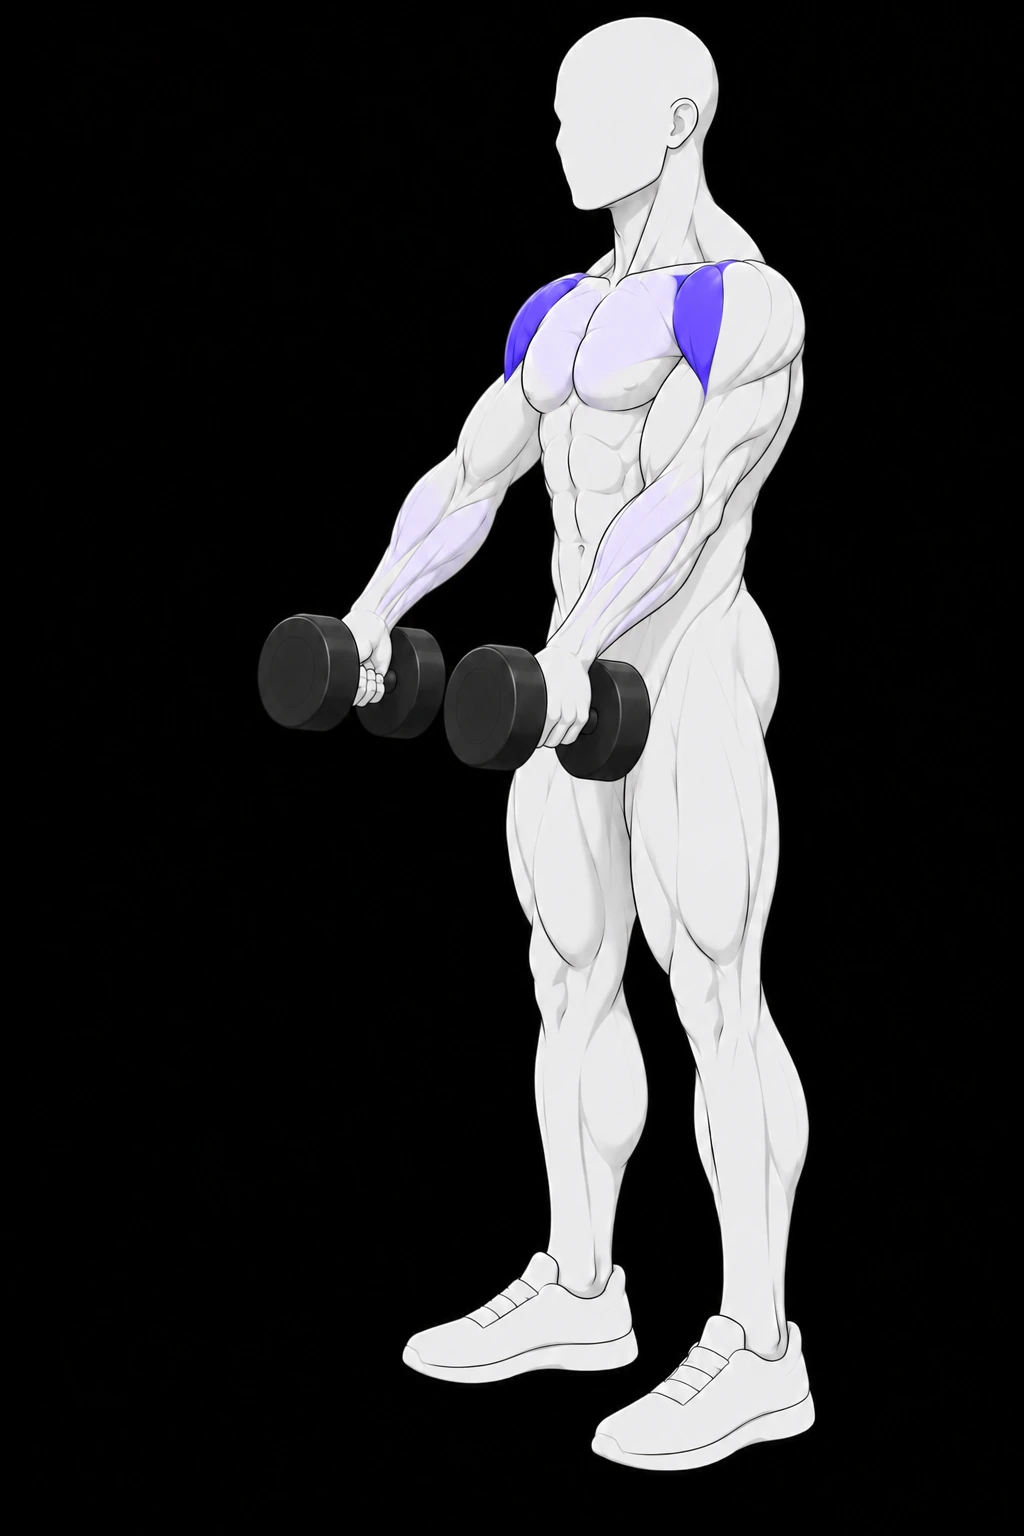
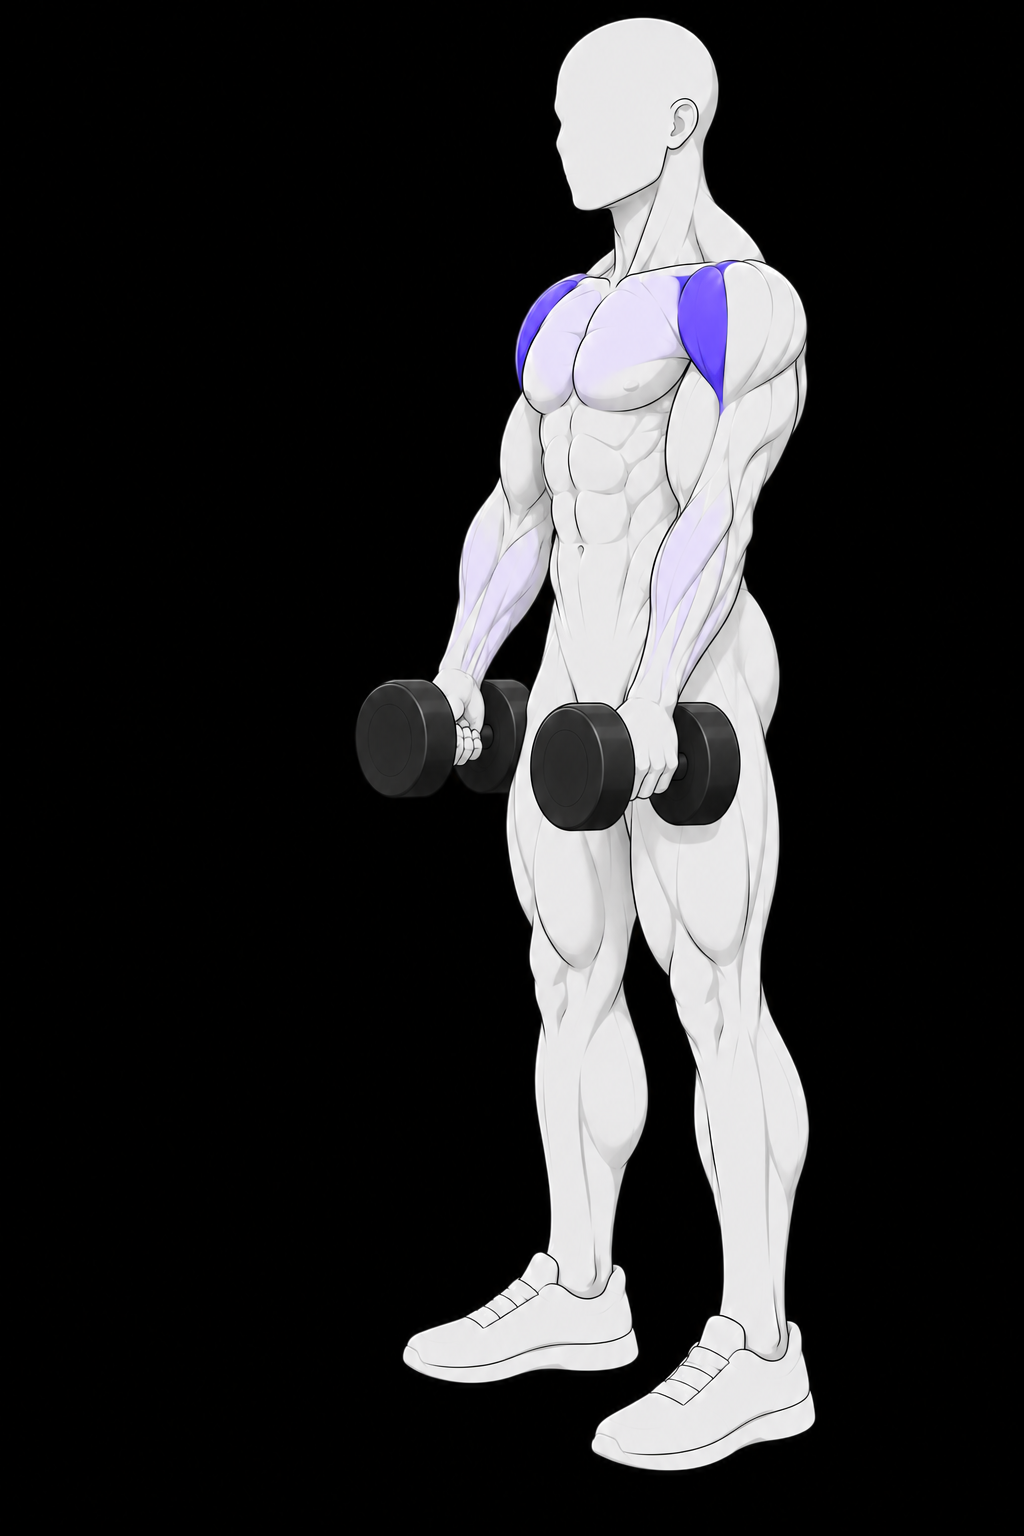
Release reviewed six-frame front raise guide (#2520)

Changed region(s): [[0.25, 0.1562, 0.8125, 0.5625], [0.6562, 0.0625, 0.6875, 0.0938]]

diff --git a/src/lib/releasedFormPlacards.ts b/src/lib/releasedFormPlacards.ts
@@ -215,19 +215,7 @@ export const RELEASED_FORM_PLACARDS = {
   ),
   "db-curl": placard("db-curl", ["Biceps"], ["Forearms"], [[0,"Set","Stand tall with palms facing forward."],[0.5,"Curl","Bend your elbows without swinging your torso."],[1,"Top","Curl toward shoulders, keeping wrists straight."],[1,"Control","Keep upper arms close to your ribs."],[0.5,"Lower","Lower both dumbbells slowly under control."],[0,"Reset","Return near straight without snapping your elbows."]]),
   "hammer-curl": placard("hammer-curl", ["Biceps"], ["Brachioradialis", "Forearms"], [[0,"Set","Stand tall with palms facing inward."],[0.5,"Curl","Bend your elbows without turning your palms."],[1,"Top","Bring weights toward shoulders with wrists aligned."],[1,"Control","Keep upper arms beside your ribs."],[0.5,"Lower","Lower slowly with the same neutral grip."],[0,"Reset","Return near straight without swinging your torso."]]),
-  "front-raise": placard(
-    "front-raise",
-    ["anterior deltoids"],
-    ["upper pectorals"],
-    [
-      [0, "Start", "Stand tall with dumbbells before your thighs."],
-      [0.25, "Initiate raise", "Raise both arms forward without swinging."],
-      [0.6, "Continue raise", "Keep the same slight elbow bend."],
-      [1, "Shoulder height", "Stop with your arms at shoulder height."],
-      [0.6, "Controlled lower", "Lower slowly without leaning your torso."],
-      [0.25, "Return", "Return towards your thighs under control."],
-    ]
-  ),
+  "front-raise": placard("front-raise", ["Front Delts"], ["Upper Chest"], [[0,"Set","Stand tall with weights before your thighs."],[0.5,"Raise","Lift forward with a slight elbow bend."],[1,"Top","Stop at shoulder height without shrugging."],[1,"Control","Keep wrists straight and your torso still."],[0.5,"Lower","Lower both weights slowly without swinging."],[0,"Reset","Return weights to the front of thighs."]]),
   "goblet-squat": placard(
     "goblet-squat",
     ["quadriceps"],

diff --git a/src/lib/formArtwork.ts b/src/lib/formArtwork.ts
@@ -181,7 +181,7 @@ export const FORM_ARTWORK: Record<string, FormArtwork> = {
   },
   "db-curl": { version: "anatomy-v3-2026-09-29", status: "approved", width: 1024, height: 1536, frames: Array.from({length:6}, (_,i) => `form-frames/db-curl/${i+1}.webp`), reference: "form-frames/db-curl/1.webp", reviewFile: "docs/exercise-art/releases/2026-09-29/db-curl.json" },
   "hammer-curl": { version: "anatomy-v3-2026-09-29", status: "approved", width: 1024, height: 1536, frames: Array.from({length:6}, (_,i) => `form-frames/hammer-curl/${i+1}.webp`), reference: "form-frames/hammer-curl/1.webp", reviewFile: "docs/exercise-art/releases/2026-09-29/hammer-curl.json" },
-  "front-raise": ownerReleased("front-raise", 1024, 1536),
+  "front-raise": { version: "anatomy-v3-2026-09-29", status: "approved", width: 1024, height: 1536, frames: Array.from({length:6}, (_,i) => `form-frames/front-raise/${i+1}.webp`), reference: "form-frames/front-raise/1.webp", reviewFile: "docs/exercise-art/releases/2026-09-29/front-raise.json" },
   "goblet-squat": ownerReleased("goblet-squat", 1024, 1536),
   "push-ups": ownerReleased("push-ups", 1536, 1024),
   squat: ownerReleased("squat", 1024, 1536),

diff --git a/src/lib/__tests__/formArtOwnerRelease.test.ts b/src/lib/__tests__/formArtOwnerRelease.test.ts
@@ -7,7 +7,6 @@ import { validateOwnerArtworkRelease } from "../formArtOwnerRelease";
 import { validateArtworkReview } from "../formArtReview";
 
 const ids = [
-  "front-raise",
   "goblet-squat",
   "push-ups",
   "squat",
@@ -55,7 +54,7 @@ describe("owner-authorized artwork activation", () => {
      I/O, and raising it further would be treating the symptom. If this
      starts failing regularly rather than occasionally, the thing to
      look at is suite concurrency, not this number. */
-  it("ships exactly seven owner-authorized guides bound to source, delivered assets and cues", () => {
+  it("ships exactly six owner-authorized guides bound to source, delivered assets and cues", () => {
     expect(
       Object.keys(FORM_ARTWORK)
         .filter(
@@ -86,6 +85,7 @@ describe("owner-authorized artwork activation", () => {
       "bodyweight-squat",
       "db-curl",
       "hammer-curl",
+      "front-raise",
     ]) {
       expect(getReleasedFormArtwork(id)?.status, id).toBe("approved");
       const { review, expected } = evidence(id);

diff --git a/src/lib/formArtCutouts.data.ts b/src/lib/formArtCutouts.data.ts
@@ -244,8 +244,8 @@ export const FORM_ART_CUTOUTS: Record<string, FormArtCutout> = {
     keyed: true,
     source: "form-frames/front-raise/1.webp",
     sourceSha256:
[4 lines of base64/hex data omitted]
   },
   "goblet-squat": {
     src: "form-art/goblet-squat.webp",
